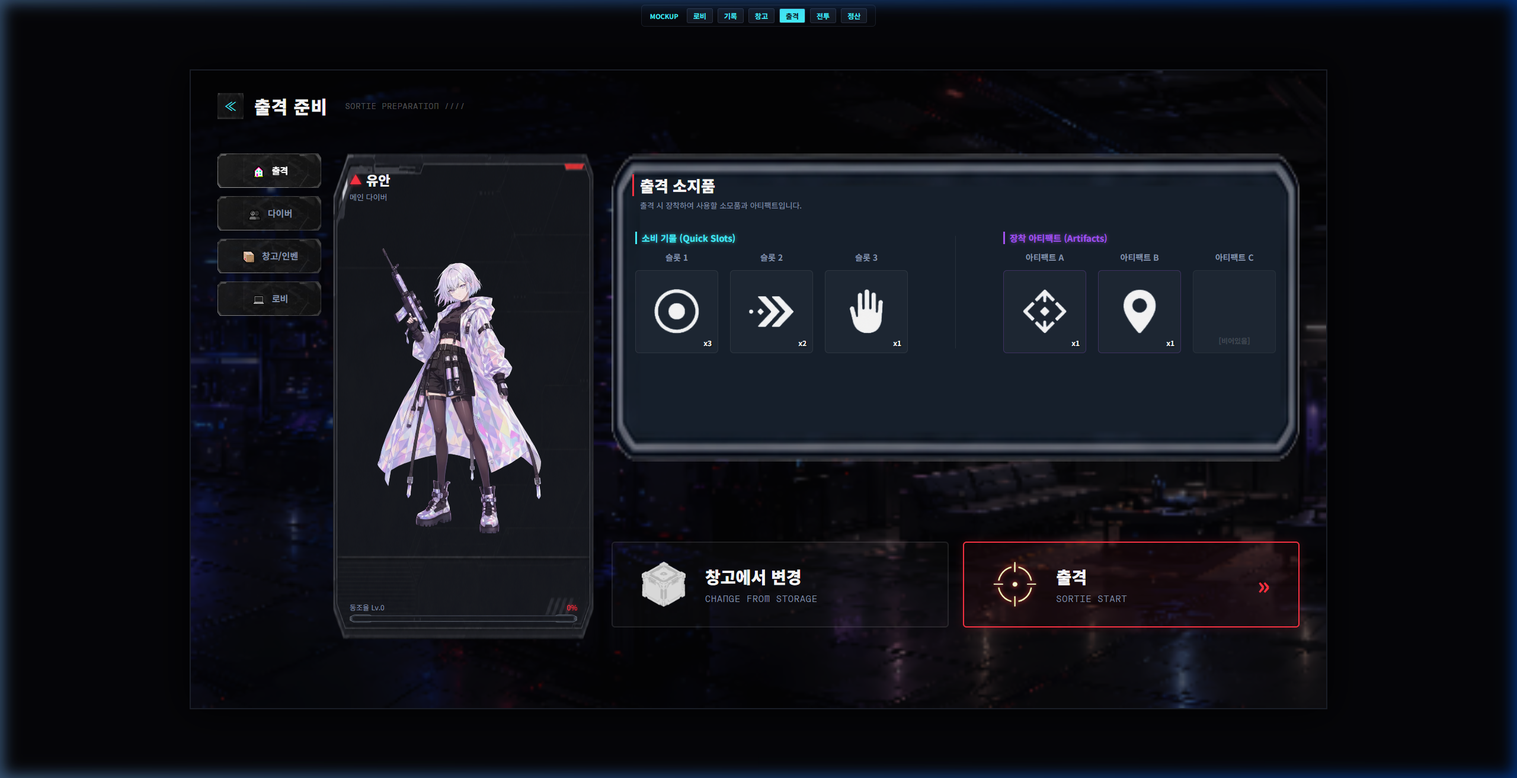
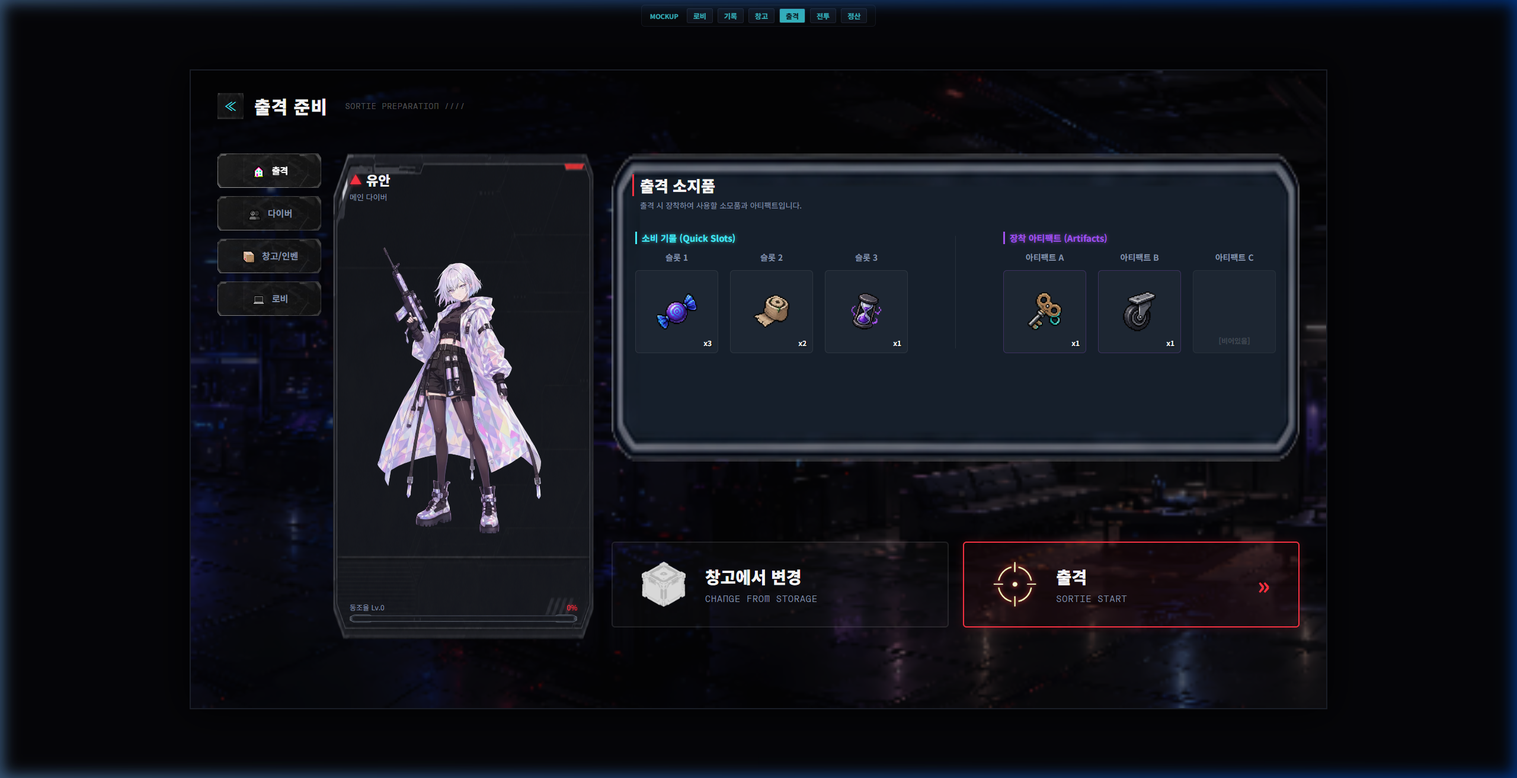
UI 목업, 아이템 / 스킬 아이콘 업데이트

diff --git a/web/UI_목업/UI_목업.html b/web/UI_목업/UI_목업.html
@@ -319,12 +319,12 @@ body{background:#050508;color:#c5c6c7;font-family:'Noto Sans KR',sans-serif;over
 /* 하단 액션바 */
 .H-action{position:absolute;bottom:40px;left:50%;transform:translateX(-50%);display:flex;align-items:flex-end;gap:16px;z-index:10}
 .H-askill{display:flex;gap:10px;align-items:flex-end}
-.H-aslot{width:68px;height:68px;display:flex;flex-direction:column;align-items:center;justify-content:center;gap:2px}
-.H-aslot .lbl{font-size:10px;font-weight:700;color:#fff;margin-top:2px}
+.H-aslot{width:80px;height:80px;display:flex;flex-direction:column;align-items:center;justify-content:center;gap:4px}
+.H-aslot .lbl{font-size:11px;font-weight:700;color:#fff;margin-top:4px}
 .H-aslot .emoji{font-size:22px}
-.H-weapon{width:100px;height:100px;display:flex;flex-direction:column;align-items:center;justify-content:center;border:2px solid #45f3ff;box-shadow:0 0 12px rgba(69,243,255,.3)}
-.H-weapon img{width:60%;opacity:.8}
-.H-weapon .ammo{font-size:12px;font-weight:700;color:#45f3ff;margin-top:4px}
+.H-skill{width:110px;height:110px;display:flex;flex-direction:column;align-items:center;justify-content:center;border:2px solid #45f3ff;box-shadow:0 0 12px rgba(69,243,255,.3)}
+.H-skill img{width:60%;opacity:.8}
+.H-skill .ammo{font-size:13px;font-weight:700;color:#45f3ff;margin-top:4px}
 .H-qslots{display:flex;gap:10px;align-items:flex-end;margin-left:20px}
 .H-qslot{width:68px;height:68px;position:relative;display:flex;align-items:center;justify-content:center}
 .H-qslot .kn{position:absolute;top:5px;left:8px;font-size:10px;color:#45f3ff;font-weight:900;z-index:5}
@@ -559,11 +559,10 @@ body{background:#050508;color:#c5c6c7;font-family:'Noto Sans KR',sans-serif;over
     <p style="font-size:11px;color:#45f3ff;margin-top:6px;text-align:right">기록 확인 &gt;</p>
   </div>
 
-  <!-- 메뉴 -->
   <div class="L-menu">
-    <div class="L-mbtn bg-btn btn red" onclick="go('s4')"><span class="icon">🎯</span><div><div>출격</div><div class="sub mono">OPERATION</div></div><span class="arrow">&gt;&gt;</span></div>
+    <div class="L-mbtn bg-btn btn red" onclick="go('s4')"><span class="icon"><img src="../../LucidDiver_Document/06_이미지_작업물/02_아이템_아이콘/UI_CrossHair.png" style="width:32px;height:32px;object-fit:contain"></span><div><div>출격</div><div class="sub mono">OPERATION</div></div><span class="arrow">&gt;&gt;</span></div>
     <div class="L-mbtn bg-btn btn" onclick="go('s2')"><span class="icon"><img src="../../LucidDiver_Document/06_이미지_작업물/04_엠블럼_배너/UI_Diver.png" style="width:32px"></span><div><div>다이버 / 기록</div><div class="sub mono">DIVER</div></div><span class="arrow">&gt;&gt;</span></div>
-    <div class="L-mbtn bg-btn btn" onclick="go('s3')"><span class="icon">📦</span><div><div>창고</div><div class="sub mono">STORAGE</div></div><span class="arrow">&gt;&gt;</span></div>
+    <div class="L-mbtn bg-btn btn" onclick="go('s3')"><span class="icon"><img src="../../LucidDiver_Document/06_이미지_작업물/04_엠블럼_배너/UI_Stash.png" style="width:32px;height:32px;object-fit:contain"></span><div><div>창고</div><div class="sub mono">STORAGE</div></div><span class="arrow">&gt;&gt;</span></div>
   </div>
 
   <!-- 대사 -->
@@ -655,26 +654,26 @@ body{background:#050508;color:#c5c6c7;font-family:'Noto Sans KR',sans-serif;over
   <div class="S-stash bg-alpha">
     <div class="hd"><h3><span class="ic">📦</span>창고</h3><span class="neon-b" style="font-weight:900">63 / 120</span></div>
     <div class="S-grid">
-      <div class="slot rare" style="width:100%;aspect-ratio:1"><img class="ico" src="../../LucidDiver_Document/06_이미지_작업물/02_아이템_아이콘/UI_Icon_1.png"><span class="qty">x25</span></div>
-      <div class="slot epic" style="width:100%;aspect-ratio:1"><img class="ico" src="../../LucidDiver_Document/06_이미지_작업물/02_아이템_아이콘/UI_Icon_2.png"><span class="qty">x18</span></div>
-      <div class="slot normal" style="width:100%;aspect-ratio:1"><img class="ico" src="../../LucidDiver_Document/06_이미지_작업물/02_아이템_아이콘/UI_Icon_3.png"><span class="qty">x12</span></div>
-      <div class="slot rare" style="width:100%;aspect-ratio:1"><img class="ico" src="../../LucidDiver_Document/06_이미지_작업물/02_아이템_아이콘/UI_Icon_4.png"><span class="qty">x8</span></div>
-      <div class="slot normal" style="width:100%;aspect-ratio:1"><img class="ico" src="../../LucidDiver_Document/06_이미지_작업물/02_아이템_아이콘/UI_Icon_5.png"><span class="qty">x15</span></div>
-      <div class="slot legend" style="width:100%;aspect-ratio:1"><img class="ico" src="../../LucidDiver_Document/06_이미지_작업물/02_아이템_아이콘/UI_Icon_6.png"><span class="qty">x230</span></div>
-      <div class="slot uncommon" style="width:100%;aspect-ratio:1"><img class="ico" src="../../LucidDiver_Document/06_이미지_작업물/02_아이템_아이콘/UI_Icon_7.png"><span class="qty">x32</span></div>
-      <div class="slot rare" style="width:100%;aspect-ratio:1"><img class="ico" src="../../LucidDiver_Document/06_이미지_작업물/02_아이템_아이콘/UI_Icon_8.png"><span class="qty">x9</span></div>
-      <div class="slot normal" style="width:100%;aspect-ratio:1"><img class="ico" src="../../LucidDiver_Document/06_이미지_작업물/02_아이템_아이콘/UI_Icon_9.png"><span class="qty">x6</span></div>
-      <div class="slot epic" style="width:100%;aspect-ratio:1"><img class="ico" src="../../LucidDiver_Document/06_이미지_작업물/02_아이템_아이콘/UI_Icon_10.png"><span class="qty">x14</span></div>
-      <div class="slot normal" style="width:100%;aspect-ratio:1"><img class="ico" src="../../LucidDiver_Document/06_이미지_작업물/02_아이템_아이콘/UI_Icon_19.png"><span class="qty">x5</span></div>
-      <div class="slot rare" style="width:100%;aspect-ratio:1"><img class="ico" src="../../LucidDiver_Document/06_이미지_작업물/02_아이템_아이콘/UI_Icon_20.png"><span class="qty">x20</span></div>
-      <div class="slot normal" style="width:100%;aspect-ratio:1"><img class="ico" src="../../LucidDiver_Document/06_이미지_작업물/02_아이템_아이콘/UI_Icon_21.png"><span class="qty">x7</span></div>
-      <div class="slot uncommon" style="width:100%;aspect-ratio:1"><img class="ico" src="../../LucidDiver_Document/06_이미지_작업물/02_아이템_아이콘/UI_Icon_22.png"><span class="qty">x11</span></div>
-      <div class="slot normal" style="width:100%;aspect-ratio:1"><img class="ico" src="../../LucidDiver_Document/06_이미지_작업물/02_아이템_아이콘/UI_Icon_23.png"><span class="qty">x9</span></div>
-      <div class="slot rare" style="width:100%;aspect-ratio:1"><img class="ico" src="../../LucidDiver_Document/06_이미지_작업물/02_아이템_아이콘/UI_Icon_24.png"><span class="qty">x4</span></div>
-      <div class="slot normal" style="width:100%;aspect-ratio:1"><img class="ico" src="../../LucidDiver_Document/06_이미지_작업물/02_아이템_아이콘/UI_Icon_25.png"><span class="qty">x3</span></div>
-      <div class="slot epic" style="width:100%;aspect-ratio:1"><img class="ico" src="../../LucidDiver_Document/06_이미지_작업물/02_아이템_아이콘/UI_Icon_26.png"><span class="qty">x10</span></div>
-      <div class="slot uncommon" style="width:100%;aspect-ratio:1"><img class="ico" src="../../LucidDiver_Document/06_이미지_작업물/02_아이템_아이콘/UI_Icon_27.png"><span class="qty">x76</span></div>
-      <div class="slot normal" style="width:100%;aspect-ratio:1"><img class="ico" src="../../LucidDiver_Document/06_이미지_작업물/02_아이템_아이콘/UI_Icon_28.png"><span class="qty">x2</span></div>
+      <div class="slot rare" style="width:100%;aspect-ratio:1"><img class="ico" src="../../LucidDiver_Document/06_이미지_작업물/06_기물_아이콘/Item_Consumable_StrangeCandy.png"><span class="qty">x25</span></div>
+      <div class="slot epic" style="width:100%;aspect-ratio:1"><img class="ico" src="../../LucidDiver_Document/06_이미지_작업물/06_기물_아이콘/Item_Consumable_RottedBandage.png"><span class="qty">x18</span></div>
+      <div class="slot normal" style="width:100%;aspect-ratio:1"><img class="ico" src="../../LucidDiver_Document/06_이미지_작업물/06_기물_아이콘/Item_Consumable_LucidHourglass.png"><span class="qty">x12</span></div>
+      <div class="slot rare" style="width:100%;aspect-ratio:1"><img class="ico" src="../../LucidDiver_Document/06_이미지_작업물/06_기물_아이콘/Item_Artifact_DelayedClockwork.png"><span class="qty">x8</span></div>
+      <div class="slot normal" style="width:100%;aspect-ratio:1"><img class="ico" src="../../LucidDiver_Document/06_이미지_작업물/06_기물_아이콘/Item_Artifact_HardenedMedPouch.png"><span class="qty">x15</span></div>
+      <div class="slot legend" style="width:100%;aspect-ratio:1"><img class="ico" src="../../LucidDiver_Document/06_이미지_작업물/06_기물_아이콘/Item_Misc_MemoryFragment.png"><span class="qty">x230</span></div>
+      <div class="slot uncommon" style="width:100%;aspect-ratio:1"><img class="ico" src="../../LucidDiver_Document/06_이미지_작업물/06_기물_아이콘/Item_Misc_DampCashBundle.png"><span class="qty">x32</span></div>
+      <div class="slot rare" style="width:100%;aspect-ratio:1"><img class="ico" src="../../LucidDiver_Document/06_이미지_작업물/06_기물_아이콘/Item_Artifact_EverRollingCartWheel.png"><span class="qty">x9</span></div>
+      <div class="slot normal" style="width:100%;aspect-ratio:1"><img class="ico" src="../../LucidDiver_Document/06_이미지_작업물/06_기물_아이콘/Item_Misc_DreamCrystal.png"><span class="qty">x6</span></div>
+      <div class="slot epic" style="width:100%;aspect-ratio:1"><img class="ico" src="../../LucidDiver_Document/06_이미지_작업물/06_기물_아이콘/Item_Artifact_CorruptedSecurityBaton.png"><span class="qty">x14</span></div>
+      <div class="slot normal" style="width:100%;aspect-ratio:1"><img class="ico" src="../../LucidDiver_Document/06_이미지_작업물/06_기물_아이콘/Item_Consumable_RottedBandage.png"><span class="qty">x5</span></div>
+      <div class="slot rare" style="width:100%;aspect-ratio:1"><img class="ico" src="../../LucidDiver_Document/06_이미지_작업물/06_기물_아이콘/Item_Consumable_StrangeCandy.png"><span class="qty">x20</span></div>
+      <div class="slot normal" style="width:100%;aspect-ratio:1"><img class="ico" src="../../LucidDiver_Document/06_이미지_작업물/06_기물_아이콘/Item_Misc_MemoryFragment.png"><span class="qty">x7</span></div>
+      <div class="slot uncommon" style="width:100%;aspect-ratio:1"><img class="ico" src="../../LucidDiver_Document/06_이미지_작업물/06_기물_아이콘/Item_Misc_DreamCrystal.png"><span class="qty">x11</span></div>
+      <div class="slot normal" style="width:100%;aspect-ratio:1"><img class="ico" src="../../LucidDiver_Document/06_이미지_작업물/06_기물_아이콘/Item_Artifact_HardenedMedPouch.png"><span class="qty">x9</span></div>
+      <div class="slot rare" style="width:100%;aspect-ratio:1"><img class="ico" src="../../LucidDiver_Document/06_이미지_작업물/06_기물_아이콘/Item_Artifact_BackflowTonic.png"><span class="qty">x4</span></div>
+      <div class="slot normal" style="width:100%;aspect-ratio:1"><img class="ico" src="../../LucidDiver_Document/06_이미지_작업물/06_기물_아이콘/Item_Misc_MemoryFragment.png"><span class="qty">x3</span></div>
+      <div class="slot epic" style="width:100%;aspect-ratio:1"><img class="ico" src="../../LucidDiver_Document/06_이미지_작업물/06_기물_아이콘/Item_Artifact_DelayedClockwork.png"><span class="qty">x10</span></div>
+      <div class="slot uncommon" style="width:100%;aspect-ratio:1"><img class="ico" src="../../LucidDiver_Document/06_이미지_작업물/06_기물_아이콘/Item_Misc_DampCashBundle.png"><span class="qty">x76</span></div>
+      <div class="slot normal" style="width:100%;aspect-ratio:1"><img class="ico" src="../../LucidDiver_Document/06_이미지_작업물/06_기물_아이콘/Item_Artifact_EverRollingCartWheel.png"><span class="qty">x2</span></div>
     </div>
   </div>
 
@@ -685,17 +684,17 @@ body{background:#050508;color:#c5c6c7;font-family:'Noto Sans KR',sans-serif;over
   <div class="S-inv bg-alpha">
     <div class="hd"><h3><span class="ic">🎒</span>인벤토리</h3><span class="neon-b" style="font-weight:900">21 / 60</span></div>
     <div class="S-grid">
-      <div class="slot epic" style="width:100%;aspect-ratio:1"><img class="ico" src="../../LucidDiver_Document/06_이미지_작업물/02_아이템_아이콘/UI_Icon_11.png"><span class="qty">x8</span></div>
-      <div class="slot rare" style="width:100%;aspect-ratio:1"><img class="ico" src="../../LucidDiver_Document/06_이미지_작업물/02_아이템_아이콘/UI_Icon_12.png"><span class="qty">x4</span></div>
-      <div class="slot legend" style="width:100%;aspect-ratio:1"><img class="ico" src="../../LucidDiver_Document/06_이미지_작업물/02_아이템_아이콘/UI_Icon_13.png"><span class="qty">x120</span></div>
-      <div class="slot normal" style="width:100%;aspect-ratio:1"><img class="ico" src="../../LucidDiver_Document/06_이미지_작업물/02_아이템_아이콘/UI_Icon_14.png"><span class="qty">x6</span></div>
-      <div class="slot rare" style="width:100%;aspect-ratio:1"><img class="ico" src="../../LucidDiver_Document/06_이미지_작업물/02_아이템_아이콘/UI_Icon_15.png"><span class="qty">x6</span></div>
-      <div class="slot normal" style="width:100%;aspect-ratio:1"><img class="ico" src="../../LucidDiver_Document/06_이미지_작업물/02_아이템_아이콘/UI_Icon_16.png"><span class="qty">x3</span></div>
-      <div class="slot uncommon" style="width:100%;aspect-ratio:1"><img class="ico" src="../../LucidDiver_Document/06_이미지_작업물/02_아이템_아이콘/UI_Icon_17.png"><span class="qty">x2</span></div>
-      <div class="slot epic" style="width:100%;aspect-ratio:1"><img class="ico" src="../../LucidDiver_Document/06_이미지_작업물/02_아이템_아이콘/UI_Icon_18.png"><span class="qty">x3</span></div>
-      <div class="slot rare" style="width:100%;aspect-ratio:1"><img class="ico" src="../../LucidDiver_Document/06_이미지_작업물/02_아이템_아이콘/UI_Icon_29.png"><span class="qty">x25</span></div>
-      <div class="slot normal" style="width:100%;aspect-ratio:1"><img class="ico" src="../../LucidDiver_Document/06_이미지_작업물/02_아이템_아이콘/UI_Icon_30.png"><span class="qty">x1</span></div>
-      <div class="slot rare" style="width:100%;aspect-ratio:1"><img class="ico" src="../../LucidDiver_Document/06_이미지_작업물/02_아이템_아이콘/UI_Icon_31.png"><span class="qty">x1</span></div>
+      <div class="slot epic" style="width:100%;aspect-ratio:1"><img class="ico" src="../../LucidDiver_Document/06_이미지_작업물/06_기물_아이콘/Item_Artifact_DelayedClockwork.png"><span class="qty">x8</span></div>
+      <div class="slot rare" style="width:100%;aspect-ratio:1"><img class="ico" src="../../LucidDiver_Document/06_이미지_작업물/06_기물_아이콘/Item_Artifact_EverRollingCartWheel.png"><span class="qty">x4</span></div>
+      <div class="slot legend" style="width:100%;aspect-ratio:1"><img class="ico" src="../../LucidDiver_Document/06_이미지_작업물/06_기물_아이콘/Item_Artifact_BackflowTonic.png"><span class="qty">x120</span></div>
+      <div class="slot normal" style="width:100%;aspect-ratio:1"><img class="ico" src="../../LucidDiver_Document/06_이미지_작업물/06_기물_아이콘/Item_Consumable_RottedBandage.png"><span class="qty">x6</span></div>
+      <div class="slot rare" style="width:100%;aspect-ratio:1"><img class="ico" src="../../LucidDiver_Document/06_이미지_작업물/06_기물_아이콘/Item_Consumable_LucidHourglass.png"><span class="qty">x6</span></div>
+      <div class="slot normal" style="width:100%;aspect-ratio:1"><img class="ico" src="../../LucidDiver_Document/06_이미지_작업물/06_기물_아이콘/Item_Misc_MemoryFragment.png"><span class="qty">x3</span></div>
+      <div class="slot uncommon" style="width:100%;aspect-ratio:1"><img class="ico" src="../../LucidDiver_Document/06_이미지_작업물/06_기물_아이콘/Item_Misc_DampCashBundle.png"><span class="qty">x2</span></div>
+      <div class="slot epic" style="width:100%;aspect-ratio:1"><img class="ico" src="../../LucidDiver_Document/06_이미지_작업물/06_기물_아이콘/Item_Artifact_DelayedClockwork.png"><span class="qty">x3</span></div>
+      <div class="slot rare" style="width:100%;aspect-ratio:1"><img class="ico" src="../../LucidDiver_Document/06_이미지_작업물/06_기물_아이콘/Item_Misc_DreamCrystal.png"><span class="qty">x25</span></div>
+      <div class="slot normal" style="width:100%;aspect-ratio:1"><img class="ico" src="../../LucidDiver_Document/06_이미지_작업물/06_기물_아이콘/Item_Artifact_HardenedMedPouch.png"><span class="qty">x1</span></div>
+      <div class="slot rare" style="width:100%;aspect-ratio:1"><img class="ico" src="../../LucidDiver_Document/06_이미지_작업물/06_기물_아이콘/Item_Artifact_BackflowTonic.png"><span class="qty">x1</span></div>
       <div class="slot empty" style="width:100%;aspect-ratio:1"></div>
       <div class="slot empty" style="width:100%;aspect-ratio:1"></div>
       <div class="slot empty" style="width:100%;aspect-ratio:1"></div>
@@ -727,7 +726,7 @@ body{background:#050508;color:#c5c6c7;font-family:'Noto Sans KR',sans-serif;over
   <!-- 상세 -->
   <div class="S-detail bg-box5">
     <div class="item-hd">
-      <div class="slot epic" style="width:64px;height:64px"><img class="ico" src="../../LucidDiver_Document/06_이미지_작업물/02_아이템_아이콘/UI_Icon_1.png"></div>
+      <div class="slot epic" style="width:64px;height:64px"><img class="ico" src="../../LucidDiver_Document/06_이미지_작업물/06_기물_아이콘/Item_Consumable_StrangeCandy.png"></div>
       <div><div class="item-nm neon-p">기억 파편</div><div class="item-cat">일반 재료 &nbsp;|&nbsp; 보유 수량 <b style="color:#fff">x8</b></div></div>
     </div>
     <p class="item-desc">오염된 데이터 조각.<br>동조율 상승에 사용된다.</p>
@@ -741,8 +740,8 @@ body{background:#050508;color:#c5c6c7;font-family:'Noto Sans KR',sans-serif;over
   <div class="S-artifact bg-extra">
     <h4 class="neon-p">장착 아티팩트 <span style="font-size:11px;color:#8b9bb4;font-weight:400;margin-left:6px">출격 전 미리 장착할 공간</span></h4>
     <div class="row">
-      <div class="slot epic"><img class="ico" src="../../LucidDiver_Document/06_이미지_작업물/02_아이템_아이콘/UI_Icon_4.png"><span class="qty">x1</span><span class="num" style="color:#a855f7">A</span></div>
-      <div class="slot rare"><img class="ico" src="../../LucidDiver_Document/06_이미지_작업물/02_아이템_아이콘/UI_Icon_8.png"><span class="qty">x1</span><span class="num" style="color:#a855f7">B</span></div>
+      <div class="slot epic"><img class="ico" src="../../LucidDiver_Document/06_이미지_작업물/06_기물_아이콘/Item_Artifact_DelayedClockwork.png"><span class="qty">x1</span><span class="num" style="color:#a855f7">A</span></div>
+      <div class="slot rare"><img class="ico" src="../../LucidDiver_Document/06_이미지_작업물/06_기물_아이콘/Item_Artifact_EverRollingCartWheel.png"><span class="qty">x1</span><span class="num" style="color:#a855f7">B</span></div>
       <div class="slot empty"><span class="empty-txt" style="position:absolute;font-size:10px;color:rgba(255,255,255,0.25);font-weight:700">[비어있음]</span><span class="num" style="color:#a855f7">C</span></div>
     </div>
   </div>
@@ -751,9 +750,9 @@ body{background:#050508;color:#c5c6c7;font-family:'Noto Sans KR',sans-serif;over
   <div class="S-qs bg-extra">
     <h4 class="neon-b">퀵슬롯 <span style="font-size:11px;color:#8b9bb4;font-weight:400;margin-left:6px">전투 중 빠른 사용</span></h4>
     <div class="row">
-      <div class="q bg-qslot"><img class="ico" src="../../LucidDiver_Document/06_이미지_작업물/02_아이템_아이콘/UI_Icon_1.png"><span class="qty">x3</span><span class="num">1</span></div>
-      <div class="q bg-qslot"><img class="ico" src="../../LucidDiver_Document/06_이미지_작업물/02_아이템_아이콘/UI_Icon_2.png"><span class="qty">x2</span><span class="num">2</span></div>
-      <div class="q bg-qslot"><img class="ico" src="../../LucidDiver_Document/06_이미지_작업물/02_아이템_아이콘/UI_Icon_3.png"><span class="qty">x1</span><span class="num">3</span></div>
+      <div class="q bg-qslot"><img class="ico" src="../../LucidDiver_Document/06_이미지_작업물/06_기물_아이콘/Item_Consumable_StrangeCandy.png"><span class="qty">x3</span><span class="num">1</span></div>
+      <div class="q bg-qslot"><img class="ico" src="../../LucidDiver_Document/06_이미지_작업물/06_기물_아이콘/Item_Consumable_RottedBandage.png"><span class="qty">x2</span><span class="num">2</span></div>
+      <div class="q bg-qslot"><img class="ico" src="../../LucidDiver_Document/06_이미지_작업물/06_기물_아이콘/Item_Consumable_LucidHourglass.png"><span class="qty">x1</span><span class="num">3</span></div>
     </div>
   </div>
 
@@ -817,21 +816,21 @@ body{background:#050508;color:#c5c6c7;font-family:'Noto Sans KR',sans-serif;over
             <div class="O-slot-col">
               <span class="slot-title">슬롯 1</span>
               <div class="O-slot-box" onclick="go('s3')">
-                <img class="ico" src="../../LucidDiver_Document/06_이미지_작업물/02_아이템_아이콘/UI_Icon_1.png">
+                <img class="ico" src="../../LucidDiver_Document/06_이미지_작업물/06_기물_아이콘/Item_Consumable_StrangeCandy.png">
                 <span class="qty">x3</span>
               </div>
             </div>
             <div class="O-slot-col">
               <span class="slot-title">슬롯 2</span>
               <div class="O-slot-box" onclick="go('s3')">
-                <img class="ico" src="../../LucidDiver_Document/06_이미지_작업물/02_아이템_아이콘/UI_Icon_2.png">
+                <img class="ico" src="../../LucidDiver_Document/06_이미지_작업물/06_기물_아이콘/Item_Consumable_RottedBandage.png">
                 <span class="qty">x2</span>
               </div>
             </div>
             <div class="O-slot-col">
               <span class="slot-title">슬롯 3</span>
               <div class="O-slot-box" onclick="go('s3')">
-                <img class="ico" src="../../LucidDiver_Document/06_이미지_작업물/02_아이템_아이콘/UI_Icon_3.png">
+                <img class="ico" src="../../LucidDiver_Document/06_이미지_작업물/06_기물_아이콘/Item_Consumable_LucidHourglass.png">
                 <span class="qty">x1</span>
               </div>
             </div>
@@ -848,14 +847,14 @@ body{background:#050508;color:#c5c6c7;font-family:'Noto Sans KR',sans-serif;over
             <div class="O-slot-col">
               <span class="slot-title">아티팩트 A</span>
               <div class="O-slot-box" onclick="go('s3')" style="border-color:rgba(168,85,247,0.25)">
-                <img class="ico" src="../../LucidDiver_Document/06_이미지_작업물/02_아이템_아이콘/UI_Icon_4.png">
+                <img class="ico" src="../../LucidDiver_Document/06_이미지_작업물/06_기물_아이콘/Item_Artifact_DelayedClockwork.png">
                 <span class="qty">x1</span>
               </div>
             </div>
             <div class="O-slot-col">
               <span class="slot-title">아티팩트 B</span>
               <div class="O-slot-box" onclick="go('s3')" style="border-color:rgba(168,85,247,0.25)">
-                <img class="ico" src="../../LucidDiver_Document/06_이미지_작업물/02_아이템_아이콘/UI_Icon_8.png">
+                <img class="ico" src="../../LucidDiver_Document/06_이미지_작업물/06_기물_아이콘/Item_Artifact_EverRollingCartWheel.png">
                 <span class="qty">x1</span>
               </div>
             </div>
@@ -946,13 +945,13 @@ body{background:#050508;color:#c5c6c7;font-family:'Noto Sans KR',sans-serif;over
 
   <div class="H-action">
     <div class="H-askill">
-      <div class="H-aslot bg-qslot"><span class="emoji">🏃</span><span class="lbl">Shift</span></div>
-      <div class="H-weapon bg-igbox"><img src="../../LucidDiver_Document/06_이미지_작업물/02_아이템_아이콘/UI_CrossHair.png"><span class="ammo">∞</span></div>
-      <div class="H-aslot bg-qslot"><span class="emoji">⚡</span><span class="lbl">Space</span></div>
+      <div class="H-aslot bg-igbox"><img src="../../LucidDiver_Document/06_이미지_작업물/07_스킬_아이콘/Skill_Run.png" style="width:40px;height:40px;object-fit:contain;opacity:0.9;margin-top:6px"><span class="lbl">Shift</span></div>
+      <div class="H-skill bg-igbox"><img src="../../LucidDiver_Document/06_이미지_작업물/07_스킬_아이콘/Skill_Decoy.png"><span class="ammo">Q</span></div>
+      <div class="H-aslot bg-igbox"><img src="../../LucidDiver_Document/06_이미지_작업물/07_스킬_아이콘/Skill_Dodge.png" style="width:40px;height:40px;object-fit:contain;opacity:0.9;margin-top:6px"><span class="lbl">Space</span></div>
     </div>
     <div class="H-qslots">
-      <div class="H-qslot bg-qslot"><img class="ico" src="../../LucidDiver_Document/06_이미지_작업물/02_아이템_아이콘/UI_Icon_1.png"><span class="qty">0</span><span class="kn">1</span></div>
-      <div class="H-qslot bg-qslot"><img class="ico" src="../../LucidDiver_Document/06_이미지_작업물/02_아이템_아이콘/UI_Icon_2.png"><span class="qty">0</span><span class="kn">2</span></div>
+      <div class="H-qslot bg-qslot"><img class="ico" src="../../LucidDiver_Document/06_이미지_작업물/06_기물_아이콘/Item_Consumable_StrangeCandy.png"><span class="qty">0</span><span class="kn">1</span></div>
+      <div class="H-qslot bg-qslot"><img class="ico" src="../../LucidDiver_Document/06_이미지_작업물/06_기물_아이콘/Item_Consumable_RottedBandage.png"><span class="qty">0</span><span class="kn">2</span></div>
       <div class="H-qslot bg-qslot" style="opacity:.3"><span class="kn">3</span></div>
     </div>
   </div>
@@ -974,8 +973,8 @@ body{background:#050508;color:#c5c6c7;font-family:'Noto Sans KR',sans-serif;over
     <div class="H-inv-sec">
       <h3>장착 아티팩트 (Artifacts)</h3>
       <div class="row">
-        <div class="slot epic"><img class="ico" src="../../LucidDiver_Document/06_이미지_작업물/02_아이템_아이콘/UI_Icon_4.png"><span class="qty">x1</span><span class="num" style="color:#a855f7">A</span></div>
-        <div class="slot rare"><img class="ico" src="../../LucidDiver_Document/06_이미지_작업물/02_아이템_아이콘/UI_Icon_8.png"><span class="qty">x1</span><span class="num" style="color:#a855f7">B</span></div>
+        <div class="slot epic"><img class="ico" src="../../LucidDiver_Document/06_이미지_작업물/06_기물_아이콘/Item_Artifact_DelayedClockwork.png"><span class="qty">x1</span><span class="num" style="color:#a855f7">A</span></div>
+        <div class="slot rare"><img class="ico" src="../../LucidDiver_Document/06_이미지_작업물/06_기물_아이콘/Item_Artifact_EverRollingCartWheel.png"><span class="qty">x1</span><span class="num" style="color:#a855f7">B</span></div>
         <div class="slot empty"><span class="num" style="color:#a855f7">C</span></div>
       </div>
     </div>
@@ -984,8 +983,8 @@ body{background:#050508;color:#c5c6c7;font-family:'Noto Sans KR',sans-serif;over
     <div class="H-inv-sec">
       <h3>인게임 퀵슬롯 (Quickslots)</h3>
       <div class="row">
-        <div class="q bg-qslot"><img class="ico" src="../../LucidDiver_Document/06_이미지_작업물/02_아이템_아이콘/UI_Icon_1.png"><span class="qty">x3</span><span class="num">1</span></div>
-        <div class="q bg-qslot"><img class="ico" src="../../LucidDiver_Document/06_이미지_작업물/02_아이템_아이콘/UI_Icon_2.png"><span class="qty">x2</span><span class="num">2</span></div>
+        <div class="q bg-qslot"><img class="ico" src="../../LucidDiver_Document/06_이미지_작업물/06_기물_아이콘/Item_Consumable_StrangeCandy.png"><span class="qty">x3</span><span class="num">1</span></div>
+        <div class="q bg-qslot"><img class="ico" src="../../LucidDiver_Document/06_이미지_작업물/06_기물_아이콘/Item_Consumable_RottedBandage.png"><span class="qty">x2</span><span class="num">2</span></div>
         <div class="q bg-qslot" style="opacity:.3"><span class="num">3</span></div>
       </div>
     </div>
@@ -994,12 +993,12 @@ body{background:#050508;color:#c5c6c7;font-family:'Noto Sans KR',sans-serif;over
     <div class="H-inv-sec">
       <h3>일반 소지품 (Inventory Grid)</h3>
       <div class="grid">
-        <div class="slot epic"><img class="ico" src="../../LucidDiver_Document/06_이미지_작업물/02_아이템_아이콘/UI_Icon_1.png"><span class="qty">x5</span></div>
-        <div class="slot rare"><img class="ico" src="../../LucidDiver_Document/06_이미지_작업물/02_아이템_아이콘/UI_Icon_2.png"><span class="qty">x2</span></div>
-        <div class="slot normal"><img class="ico" src="../../LucidDiver_Document/06_이미지_작업물/02_아이템_아이콘/UI_Icon_3.png"><span class="qty">x3</span></div>
-        <div class="slot rare"><img class="ico" src="../../LucidDiver_Document/06_이미지_작업물/02_아이템_아이콘/UI_Icon_5.png"><span class="qty">x1</span></div>
-        <div class="slot epic"><img class="ico" src="../../LucidDiver_Document/06_이미지_작업물/02_아이템_아이콘/UI_Icon_6.png"><span class="qty">x1</span></div>
-        <div class="slot legend"><img class="ico" src="../../LucidDiver_Document/06_이미지_작업물/02_아이템_아이콘/UI_Icon_10.png"><span class="qty">x4</span></div>
+        <div class="slot epic"><img class="ico" src="../../LucidDiver_Document/06_이미지_작업물/06_기물_아이콘/Item_Consumable_StrangeCandy.png"><span class="qty">x5</span></div>
+        <div class="slot rare"><img class="ico" src="../../LucidDiver_Document/06_이미지_작업물/06_기물_아이콘/Item_Consumable_RottedBandage.png"><span class="qty">x2</span></div>
+        <div class="slot normal"><img class="ico" src="../../LucidDiver_Document/06_이미지_작업물/06_기물_아이콘/Item_Consumable_LucidHourglass.png"><span class="qty">x3</span></div>
+        <div class="slot rare"><img class="ico" src="../../LucidDiver_Document/06_이미지_작업물/06_기물_아이콘/Item_Artifact_HardenedMedPouch.png"><span class="qty">x1</span></div>
+        <div class="slot epic"><img class="ico" src="../../LucidDiver_Document/06_이미지_작업물/06_기물_아이콘/Item_Misc_MemoryFragment.png"><span class="qty">x1</span></div>
+        <div class="slot legend"><img class="ico" src="../../LucidDiver_Document/06_이미지_작업물/06_기물_아이콘/Item_Artifact_CorruptedSecurityBaton.png"><span class="qty">x4</span></div>
         <div class="slot empty"></div>
         <div class="slot empty"></div>
         <div class="slot empty"></div>
@@ -1054,9 +1053,9 @@ body{background:#050508;color:#c5c6c7;font-family:'Noto Sans KR',sans-serif;over
 
     <!-- 상자 아이템 리스트 (4x2) -->
     <div class="grid">
-      <div class="slot legend"><img class="ico" src="../../LucidDiver_Document/06_이미지_작업물/02_아이템_아이콘/UI_Icon_13.png"><span class="qty">x3</span></div>
-      <div class="slot rare"><img class="ico" src="../../LucidDiver_Document/06_이미지_작업물/02_아이템_아이콘/UI_Icon_22.png"><span class="qty">x1</span></div>
-      <div class="slot epic"><img class="ico" src="../../LucidDiver_Document/06_이미지_작업물/02_아이템_아이콘/UI_Icon_26.png"><span class="qty">x1</span></div>
+      <div class="slot legend"><img class="ico" src="../../LucidDiver_Document/06_이미지_작업물/06_기물_아이콘/Item_Artifact_BackflowTonic.png"><span class="qty">x3</span></div>
+      <div class="slot rare"><img class="ico" src="../../LucidDiver_Document/06_이미지_작업물/06_기물_아이콘/Item_Misc_DreamCrystal.png"><span class="qty">x1</span></div>
+      <div class="slot epic"><img class="ico" src="../../LucidDiver_Document/06_이미지_작업물/06_기물_아이콘/Item_Artifact_DelayedClockwork.png"><span class="qty">x1</span></div>
       <div class="slot empty"></div>
       <div class="slot empty"></div>
       <div class="slot empty"></div>
@@ -1096,7 +1095,7 @@ body{background:#050508;color:#c5c6c7;font-family:'Noto Sans KR',sans-serif;over
     <div class="RS-center bg-textbox">
       <h2 class="neon-b">📋 기록 복구</h2>
       <div class="RS-row">
-        <div class="slot epic" style="width:60px;height:60px"><img class="ico" src="../../LucidDiver_Document/06_이미지_작업물/02_아이템_아이콘/UI_Icon_3.png"></div>
+        <div class="slot epic" style="width:60px;height:60px"><img class="ico" src="../../LucidDiver_Document/06_이미지_작업물/06_기물_아이콘/Item_Consumable_LucidHourglass.png"></div>
         <div class="info"><h3>기억 파편 소모</h3><p class="neon-p">× 36</p></div>
       </div>
       <div class="RS-lvup">
@@ -1116,13 +1115,13 @@ body{background:#050508;color:#c5c6c7;font-family:'Noto Sans KR',sans-serif;over
       <h2>📦 회수품 정산</h2>
       <div class="saved neon-g">✔ 모든 회수품이 창고에 저장되었습니다.</div>
       <div class="RS-loot">
-        <div class="lcol"><div class="slot epic"><img class="ico" src="../../LucidDiver_Document/06_이미지_작업물/02_아이템_아이콘/UI_Icon_1.png"></div><div class="lnm">기묘한 사탕</div><div class="lqty">× 12</div></div>
-        <div class="lcol"><div class="slot rare"><img class="ico" src="../../LucidDiver_Document/06_이미지_작업물/02_아이템_아이콘/UI_Icon_2.png"></div><div class="lnm">변질된 봉대</div><div class="lqty">× 3</div></div>
-        <div class="lcol"><div class="slot legend"><img class="ico" src="../../LucidDiver_Document/06_이미지_작업물/02_아이템_아이콘/UI_Icon_3.png"></div><div class="lnm">기억 파편</div><div class="lqty">× 36</div></div>
-        <div class="lcol"><div class="slot normal"><img class="ico" src="../../LucidDiver_Document/06_이미지_작업물/02_아이템_아이콘/UI_Icon_4.png"></div><div class="lnm">신용 칩</div><div class="lqty">× 4,250</div></div>
-        <div class="lcol"><div class="slot rare"><img class="ico" src="../../LucidDiver_Document/06_이미지_작업물/02_아이템_아이콘/UI_Icon_5.png"></div><div class="lnm">침몽 코어</div><div class="lqty">× 2</div></div>
-        <div class="lcol"><div class="slot epic"><img class="ico" src="../../LucidDiver_Document/06_이미지_작업물/02_아이템_아이콘/UI_Icon_6.png"></div><div class="lnm">오버클럭 모듈</div><div class="lqty">× 1</div></div>
-        <div class="lcol"><div class="slot uncommon"><img class="ico" src="../../LucidDiver_Document/06_이미지_작업물/02_아이템_아이콘/UI_Icon_7.png"></div><div class="lnm">훼손된 데이터</div><div class="lqty">× 5</div></div>
+        <div class="lcol"><div class="slot uncommon"><img class="ico" src="../../LucidDiver_Document/06_이미지_작업물/06_기물_아이콘/Item_Consumable_StrangeCandy.png"></div><div class="lnm">기묘한 사탕</div><div class="lqty">× 12</div></div>
+        <div class="lcol"><div class="slot normal"><img class="ico" src="../../LucidDiver_Document/06_이미지_작업물/06_기물_아이콘/Item_Consumable_RottedBandage.png"></div><div class="lnm">변질된 붕대</div><div class="lqty">× 3</div></div>
+        <div class="lcol"><div class="slot normal"><img class="ico" src="../../LucidDiver_Document/06_이미지_작업물/06_기물_아이콘/Item_Misc_MemoryFragment.png"></div><div class="lnm">기억 파편</div><div class="lqty">× 36</div></div>
+        <div class="lcol"><div class="slot uncommon"><img class="ico" src="../../LucidDiver_Document/06_이미지_작업물/06_기물_아이콘/Item_Misc_DampCashBundle.png"></div><div class="lnm">눅눅한 지폐 뭉치</div><div class="lqty">× 4,250</div></div>
+        <div class="lcol"><div class="slot rare"><img class="ico" src="../../LucidDiver_Document/06_이미지_작업물/06_기물_아이콘/Item_Misc_DreamCrystal.png"></div><div class="lnm">응집된 꿈의 결정</div><div class="lqty">× 2</div></div>
+        <div class="lcol"><div class="slot epic"><img class="ico" src="../../LucidDiver_Document/06_이미지_작업물/06_기물_아이콘/Item_Artifact_DelayedClockwork.png"></div><div class="lnm">지연된 시계 태엽</div><div class="lqty">× 1</div></div>
+        <div class="lcol"><div class="slot uncommon"><img class="ico" src="../../LucidDiver_Document/06_이미지_작업물/06_기물_아이콘/Item_Artifact_BackflowTonic.png"></div><div class="lnm">역류하는 자양강장제</div><div class="lqty">× 5</div></div>
         <div class="lcol"><div class="slot empty" style="display:flex;align-items:center;justify-content:center;font-size:11px;color:rgba(255,255,255,.2);text-align:center;line-height:1.3">추가 슬롯<br>Lv.3 해금</div><div class="lnm"></div><div class="lqty"></div></div>
       </div>
     </div>

diff --git a/LucidDiver_Document/검수/P1_UI_레이아웃_배치_명세서_v1.0.md b/LucidDiver_Document/검수/P1_UI_레이아웃_배치_명세서_v1.0.md
@@ -281,10 +281,10 @@ UI_YuanCircleProfile.png → 유안 원형 프로필
 │ [배터리]                     [하단 중앙 - 액션 바]          [퀵슬롯] │
 │  58%    [HP 수치] 287+19/580                                        │
 │         [MP 수치] 17/180     ┌─────────────────────────┐  ┌──┐┌──┐ │
-│                              │ ⊘  »» 🔫  ⊕  ⊗        │  │1 ││2 │ │
-│                              │Space Q   E   R          │  │x30│x25│ │
+│                              │   🏃      🎯      ⚡    │  │1 ││2 │ │
+│                              │ Shift     Q     Space   │  │x30│x25│ │
 │                              └─────────────────────────┘  └──┘└──┘ │
-│                              [무기 아이콘] 24/120                    │
+│                              [Q 스킬 아이콘 (투척형)]               │
 └──────────────────────────────────────────────────────────────────────┘
 ```
 
@@ -298,6 +298,8 @@ UI_YuanCircleProfile.png → 유안 원형 프로필
 | **MP 바** | `MpBar` (Slider) | BG: [`UI_SliderBG_2.png`](../06_이미지_작업물/05_인게임_HUD/UI_SliderBG_2.png)<br>Fill: `#4080FF` 그라데이션 | HP 아래, W: 200, H: 12 | - |
 | **퀵슬롯 1-3** | `Consumable/Image-Background` | [`UI_QuickSlot.png`](../06_이미지_작업물/05_인게임_HUD/UI_QuickSlot.png) | Bottom-Right, 64×64 ×3 | **퀵슬롯 번호 정렬**: 각 슬롯 박스 좌측 상단의 핫키 번호 1, 2, 3의 좌표를 우측으로 `3px` 조정하여 사각형 인디케이터 중앙에 정렬 |
 | **퀵슬롯 아이템 아이콘** | `Image-Consumable` | 아이템 DB iconSprite | 퀵슬롯 내부, 48×48 | - |
+| **이동/유틸 스킬 슬롯** | `H-aslot` | [`Skill_Run.png`](../06_이미지_작업물/07_스킬_아이콘/Skill_Run.png), [`Skill_Dodge.png`](../06_이미지_작업물/07_스킬_아이콘/Skill_Dodge.png) | 하단 중앙, 80×80 ×2 | **Shift (달리기/구르기)** 및 **Space (각성/대시)** 스킬 맵핑 슬롯 (Q 슬롯과 동일한 `bg-igbox` 프레임 적용 및 비율 확대) |
+| **Q 스킬 슬롯 (투척형)** | `H-skill` | [`Skill_Decoy.png`](../06_이미지_작업물/07_스킬_아이콘/Skill_Decoy.png) | 하단 중앙, 110×110 (강조) | **Q 단축키 투척 스킬**: 네온 블루 테두리(`border: 2px solid #45f3ff`) 및 외부 광채 효과 적용 (비율 확대) |
 
 > [!NOTE]
 > 현재 LevelDesignScene 내 Canvas는 **`Canvas-timer`** (전화부스 탈출 타이머)만 존재합니다. 인게임 HUD Canvas(`Canvas-GameUI`)는 **프리팹**에서 런타임 로드되므로, 프리팹 편집기에서 작업해야 합니다.
